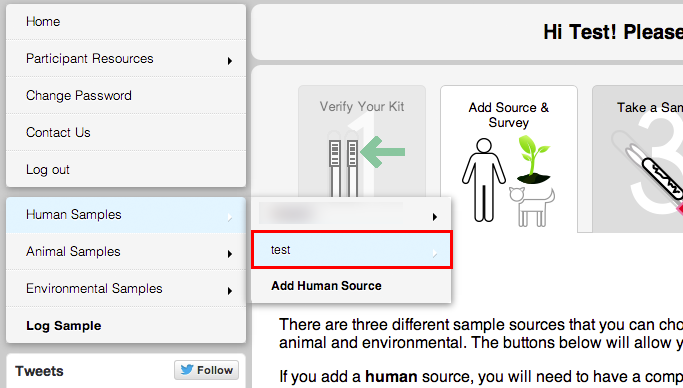
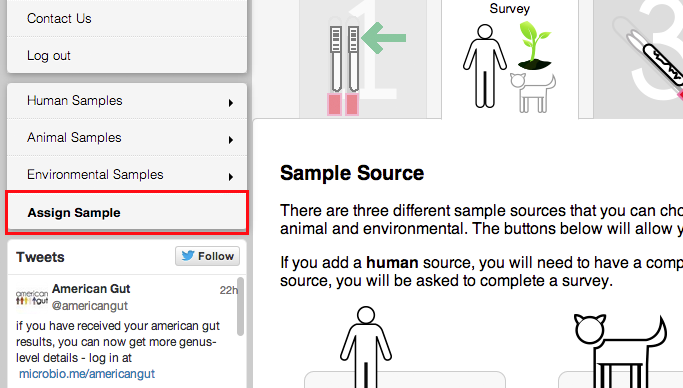
Changes to FAQ

diff --git a/amgut/lib/locale_data/american_gut.py b/amgut/lib/locale_data/american_gut.py
@@ -116,13 +116,13 @@ _FAQ = {
     'FAQ_HEADER': "%(shorthand)s FAQ" % {"shorthand": AMGUT_CONFIG.project_shorthand},
     'LOG_IN_WHAT_NOW_ANS_1': 'You need to follow the add participant workflow. Click on the "Add Source & Survey" tab located at the top of the page.',
     'INFORMATION_IDENTIFY_ME': 'Can data describing my gut microbiome be used to identify me or a medical condition I have?',
-    'LOG_IN_WHAT_NOW_ANS_3': 'You can log a sample by clicking the "Associate Sample" link in the menu. If you do not see the "Associate Sample" link, then all of your barcodes have been assigned.',
+    'LOG_IN_WHAT_NOW_ANS_3': 'You can assign a sample by clicking the "Assign Sample" link in the menu. If you do not see the "Assign Sample" link, then all of your barcodes have been assigned.',
     'PARTICIPATE_WITH_DIAGNOSIS': 'Can I participate in the project if I am diagnosed with ...?',
     'LOG_IN_WHAT_NOW_ANS_5': 'When adding a sample, please be sure to select the barcodes that matches the barcode on the sampling tube of the sample that you are logging',
     'TAKES_SIX_MONTHS': 'Does it really take up to three months to get my results?',
     'HOW_CHANGE_GUT': 'How can I change my gut microbiome?',
     'BETTER_OR_WORSE': 'How can I tell if my gut microbiome is better or worse than other people in my category?',
-    'ONLY_FECAL_RESULTS_ANS': 'We have only sent out results for fecal samples and are in the process of evaluating how best to present the other sample types. Please see <a href="#faq12">the previous question </a>',
+    'ONLY_FECAL_RESULTS_ANS': 'Results are only available for fecal, oral, and skin samples.  We are in the process of evaluating how best to present the other sample types. Please see <a href="#faq12">the previous question </a>',
     'DIFFERENT_WHATS_WRONG_WITH_ME_ANS': 'No! Your gut microbiome is as unique as your fingerprint so you should expect to see some differences. Many factors can affect your gut microbiome, and any differences you see are likely to be the result of one of these factors. Maybe your diet is different than most people your age. Maybe you just traveled somewhere exotic. Different does not necessarily mean bad.',
     'WHEN_RESULTS_NON_FECAL_ANS': 'The vast majority of the samples we\'ve received are fecal, which was why we prioritized those samples. Much of the analysis and results infrastructure we\'ve put in place is applicable to other sample types, but we do still need to assess what specific representations of the data make the most sense to return to participants. We apologize for the delay.',
     'FIND_DETAILED_INFO': 'Where can I find more detailed information about my sample?',
@@ -151,7 +151,7 @@ _FAQ = {
     'INFORMATION_IDENTIFY_ME_ANS': 'No. First, all of your personal information has been de-identified in our database as mandated by institutional guidelines. Second, although each person has a unique gut microbiome, many of the unique qualities are at the species or strain level of bacteria. Our sequencing methods currently do not allow us to describe your gut microbiome in that much detail. Finally, for most medical conditions, there are no known, predictable patterns in gut microbial community composition. Research simply hasn\'t gotten that far yet.</p>'
                                 '<p>We should also mention that since we are only interested in your microbes, we do not sequence human genomic DNA in our typical analyses. Where it is possible for human DNA to be sequenced (e.g., the Beyond Bacteria kits), we remove the human DNA using the same bioinformatics approaches undertaken in the NIH-funded Human Microbiome Project and approved by NIH bioethicists. Additionally, there is so little human DNA in fecal, skin and mucus samples that the chances of us being able to sequence your entire human genome are almost none, even if we tried.',
     'FECAL_NO_RESULTS_ANS': 'On any given sequencing run (not just the %(shorthand)s), a small percentage of the samples fail for unknown reasons -- our methods are good but not perfect. This is one of the reasons the sample kits have two Q-tips. It allows us to perform a second microbial DNA extraction and re-sequence if the first attempt failed. We will be doing this for all of the samples that failed. If there was a technical problem with the sample itself (e.g. not enough microbes on the swab) that inhibits us from producing data for you, we will be re-contacting you about collecting another sample.' % {"shorthand": AMGUT_CONFIG.project_shorthand},
-    'MULTIPLE_KITS_DIFFERENT_TIMES_ANS': 'For best results, we recommend that you mail each sample within 48 hours of collection.',
+    'MULTIPLE_KITS_DIFFERENT_TIMES_ANS': 'You are welcome to do that!  If you plan to wait to use another sample tube at a later date, store the tube in a dry, cool location at room temperature.  An ideal location would be a cabinet or closet.<p><strong>Do not take a sample unless you plan to send it within 48 hours of collecting.</strong></p>',
     'STEPS_TO_FOLLOW': '<a href="%(video)s">%(shorthand)s - Steps to Follow When Your Kit Arrives</a> from <a href="https://vimeo.com/user16100300">shelley schlender</a> on <a href="https://vimeo.com">Vimeo</a>.' % {"shorthand": AMGUT_CONFIG.project_shorthand, "video": media_locale["STEPS_VIDEO"]},
     'WHY_TWO_SWABS': 'Why are there 2 swabs inside the tube?',
     'MULTIPLE_KITS_DIFFERENT_TIMES': 'I have a 2+ sample kit, and would like to collect and send them in at different times',
@@ -166,7 +166,7 @@ _FAQ = {
     'WHERE_SEND_SAMPLE': 'Where do I send my sample?',
     'LOG_IN_WHAT_NOW': "I'm logged in, what do I do now?",
     'LOG_IN_WHAT_NOW_ANS_2': '<p>During this workflow you (or whomever is being sampled) will:</p>'
-                                '<ol>   <li>Add a participant</li><li>Provide electronic consent</li><li>Answer survey questions (including the diet questions)</li><li>Upon completion, become eligible to associate samples</li>          </ol><p>When participants are eligible,  you will then see their name under the corresponding menu on the left, in this example we have just added the participant "Test":</p>'
+                                '<ol>   <li>Add a participant</li><li>Provide electronic consent</li><li>Answer survey questions (including the diet questions)</li><li>Upon completion, become eligible to associate samples</li>          </ol><p>When participants are eligible,  you will then see their name under the corresponding menu on the left, in this example we have just added the participant "test":</p>'
                                 '',
     'WHAT_FORMS_ANS': 'The instruction on the sampling instructions that requires you to "place your forms and the sample tube in preaddressed envelope" is leftover from a previous version of the sampling instructions. There are no forms for you to include inside the envelope with your sample.</p>' % {'sitebase': media_locale['SITEBASE']},
     'WHY_TWO_SWABS_ANS_1': 'Each sampling tube contains two swabs and looks like this:',
@@ -213,7 +213,7 @@ _INTRODUCTION = {
     'INTRODUCTION_MICROBES_COME_FROM_HEAD': "Where do my microbes come from?",
     'INTRODUCTION_MICROBES_COME_FROM': "If you had asked this question a few years ago, we would have had to say the stork. But increasingly we are beginning to understand more about where the specific zoo of species in you come from and it is a little grosser than the stork. If you were born vaginally, some of your gut microbes came from your mother's feces (birth, my friend, is messy). Some came from her vagina. Others came, if you were breast fed, from her milk. It is easiest for bacteria, it seems, to colonize our guts in the first moments of life. As we age, our stomachs become acidic. We tend to think of the acid of our stomachs as aiding in digestion; it does that but another key role of our stomachs is to prevent pathogenic species from getting into our guts. The trouble with this, well, there are a couple of problems. One is c-section birth. During c-section birth, microbes need to come from somewhere other than the mother's vagina and feces. The most readily available microbes tend to be those in the hospital. As a result, the microbes in c-section babies tend to, at least initially, resemble those of the hospital more than they resemble those of other babies. With time, many c-section babies eventually get colonized by enough good bacteria (from pet dogs, pet cats, their parents' dirty hands, etc..) to get good microbes, but it is a more chancy process. But then, the big question, one we just don't know the answer to, is which and how many microbes colonize our guts as we get older. How many microbes ride through the acid bath of our stomach on our food and take up residence? We know that bad bacteria, pathogens, do this, but just how often and how good ones do it is not well worked out. You might be thinking, what about yoghurt and I'll tell you the answer, definitely, is we don't really know. Do people who eat yoghurt have guts colonized by species from that yoghurt? Maybe, possibly, I bet they do, but we don't really know (though if we get enough samples from yoghurt and non yoghurt eaters, we could know).",
     'INTRODUCTION_DISCOVER_HEAD': "What will we discover in your gut?",
-    'INTRODUCTION_DISCOVER': "When the early meetings were going on about this project, everyone sat around talking about what we might see from colon samples. One scientist was sure that we would see bacteria that looked like Elvis. Another though we would find Shakespeare's great lost play. But the truth is all that we are going to see from your gut are lists of nucleotides. Let me explain&hellip;<br/>&nbsp;<br/>Nucleotides are those hunks of protein out of which DNA and RNA are made. They come in different forms to which scientists have assigned names and letters. When the robots are done with the work, what they produce are lists of the nucleotides in all of 16S genes from all of the cells in your sample. These nucleotides tell the scientists which kinds of life are in your sample (and in you). But because we will only have samples of little stretches of the 16S genes, we won't know exactly which species are in you, just which lineages they are from. You might have the bacterial equivalent of a chimpanzee and a gorilla in you, but all we'll know from your sample is that there was an ape. Knowing you have a bacterial ape in your gut will, on its own, not tell you so much. The real information will come from context, statistical context. I know, that sounds boring, but I promise it is not.<br/>&nbsp;<br/>We think that hundreds of different things you do during your life, in addition to what your mother and father did (let's try not to think about that), your genes and even just where you grew up influence which species of microbes are found inside you. But we don't really know. The problem is humans are so darn complicated. What we need to be able to do is to compare large numbers of people, people who differ in many ways, to be able to sort out which variables are sometimes a little important and which ones are the big deal. Is a vegan gut very different from a vegetarian one? Does eating yoghurt make a big difference? Do the effects of a c-section birth last forever? These questions require us to compare many people, which is where you come in. Your sample, gives us context and it gives you context too. It won't be terribly exciting on its own (you will know which ancient lineages you have dividing and thriving inside you. OK, that is pretty cool on second thought), but it will be very exciting in context. Where do you fall relative to fish eaters, sick people healthy people, hunter gatherers, or even your dog? You will know and we will know. And this is not all.<br/>&nbsp;<br/>All of the questions I have mentioned so far are what I might call first order questions. How does this thing compare to that thing. But what we'd love to be able to answer are second order questions, contingent questions, questions such as whether the effect of your diet depends on your ethnicity (it probably does), whether the effect of having a dog depends on whether or not you live in the city (again, I bet it does) and so on. These questions are exactly the sort of question we have failed to be able to answer well when it comes to diet, because we don't have big enough samples sizes. We can see the forest for all of humans. Well, that isn't quite right, but you get the idea, we will be able to understand elaborate effects of multiple variables on the wilderness between your pie hole and the other hole and that, to us, is exciting.",
+    'INTRODUCTION_DISCOVER': "When the early meetings were going on about this project, everyone sat around talking about what we might see from colon samples. One scientist was sure that we would see bacteria that looked like Elvis. Another though we would find Shakespeare's great lost play. But the truth is all that we are going to see from your gut are lists of nucleotides. Let me explain&hellip;<br/>&nbsp;<br/>Nucleotides are those building blocks out of which DNA and RNA are made. They come in different forms to which scientists have assigned names and letters. When the robots are done with the work, what they produce are lists of the nucleotides in all of 16S genes from all of the cells in your sample. These nucleotides tell the scientists which kinds of life are in your sample (and in you). But because we will only have samples of little stretches of the 16S genes, we won't know exactly which species are in you, just which lineages they are from. You might have the bacterial equivalent of a chimpanzee and a gorilla in you, but all we'll know from your sample is that there was an ape. Knowing you have a bacterial ape in your gut will, on its own, not tell you so much. The real information will come from context, statistical context. I know, that sounds boring, but I promise it is not.<br/>&nbsp;<br/>We think that hundreds of different things you do during your life, in addition to what your mother and father did (let's try not to think about that), your genes and even just where you grew up influence which species of microbes are found inside you. But we don't really know. The problem is humans are so darn complicated. What we need to be able to do is to compare large numbers of people, people who differ in many ways, to be able to sort out which variables are sometimes a little important and which ones are the big deal. Is a vegan gut very different from a vegetarian one? Does eating yoghurt make a big difference? Do the effects of a c-section birth last forever? These questions require us to compare many people, which is where you come in. Your sample, gives us context and it gives you context too. It won't be terribly exciting on its own (you will know which ancient lineages you have dividing and thriving inside you. OK, that is pretty cool on second thought), but it will be very exciting in context. Where do you fall relative to fish eaters, sick people healthy people, hunter gatherers, or even your dog? You will know and we will know. And this is not all.<br/>&nbsp;<br/>All of the questions I have mentioned so far are what I might call first order questions. How does this thing compare to that thing. But what we'd love to be able to answer are second order questions, contingent questions, questions such as whether the effect of your diet depends on your ethnicity (it probably does), whether the effect of having a dog depends on whether or not you live in the city (again, I bet it does) and so on. These questions are exactly the sort of question we have failed to be able to answer well when it comes to diet, because we don't have big enough samples sizes. We can see the forest for all of humans. Well, that isn't quite right, but you get the idea, we will be able to understand elaborate effects of multiple variables on the wilderness between your pie hole and the other hole and that, to us, is exciting.",
     'INTRODUCTION_STORIES_HEAD': "A few of the stories of the evolutionary tree in your gut",
     'INTRODUCTION_STORIES': "Some people have least favorite bacteria. Salmonella, for example, seems to have inspired some haters. But microbiologists also have favorite bacteria, as well they should. The stories of bacteria (and those who chase and study them) are among the most important of humanities stories and include the tales of many species without which we could not live, or whose presence or absence affects how we live. These species are as fascinating and, dare I say, lovely as pandas or koala bears, just harder to see and far more significant. I have begun to compile a book of the stories of some of the most common and interesting species you are likely to encounter&mdash; whether in your own gut, on your lettuce or the next time you sink your fingers into the soil. These stories will be available online here at <a href=\"http://invisiblelife.yourwildlife.org/\">Invisible Life</a> as they are compiled as a book, a book written by some of the very best science writers AND scientists out there. For starters, you might be interested to know that <a href=\"http://invisiblelife.yourwildlife.org/mycoplasma/\">the smallest species on Earth</a> is sometimes found inside humans and, once we look at your 16S, we will even know whether it lives in you. As more of these stories are written, they will appear here, eventually as an ebook, an ebook that you can reference when you find out what lives inside you to know whether your constant companion is a species we know everything about or, as is more typical, no one has ever studied. Like Charlie Chaplin once said&hellip; Wait, Charlie Chaplin was the one who didn't say anything wasn't he."
 }

diff --git a/amgut/lib/locale_data/british_gut.py b/amgut/lib/locale_data/british_gut.py
@@ -50,7 +50,7 @@ media_locale = {
     'FAVICON': _SITEBASE + "/static/img/favicon.ico",
     'FUNDRAZR_URL': "https://fundrazr.com/campaigns/4sSf3",
     'HELP_EMAIL': HELP_EMAIL,
-    'LOGO': _SITEBASE + '/static/img/british_gut_logo.jpg',
+    'LOGO': _SITEBASE + '/static/img/bg_logo.jpg',
     'LOG_SAMPLE_OPTS': _SITEBASE + "/static/img/log_sample_options.png",
     'NAV_ADDENDUM': "How do I interpret my results?",
     'NAV_ADD_ANIMAL': "Add Animal Source",
@@ -456,19 +456,19 @@ _FAQ = {
                                    "<p>We should also mention that since we are only interested in your microbes, we do not sequence human genomic DNA in our typical analyses. Where it is possible for human DNA to be sequenced (e.g., the Beyond Bacteria kits), we remove the human DNA using the same bioinformatics approaches undertaken in the NIH-funded Human Microbiome Project and approved by NIH bioethicists. Additionally, there is so little human DNA in faecal, skin and mucus samples that the chances of us being able to sequence your entire human genome are almost none, even if we tried.",
     'LOG_IN_WHAT_NOW': "I'm logged in, what do I do now?",
     'LOG_IN_WHAT_NOW_ANS_1': 'You need to follow the add participant workflow. Click on the "Add Source & Survey" tab located at the top of the page.',
-    'LOG_IN_WHAT_NOW_ANS_2': '<p>During this workflow you (or whomever is being sampled) will:</p><ol>   <li>Add a participant</li><li>Provide electronic consent</li><li>Answer survey questions (including the diet questions)</li><li>Upon completion, become eligible to associate samples</li>          </ol><p>When participants are eligible,  you will then see their name under the corresponding menu on the left, in this example we have just added the participant "Test":</p>',
-    'LOG_IN_WHAT_NOW_ANS_3': 'You can log a sample by clicking the "Associate Sample" link in the menu. If you do not see the "Associate Sample" link, then all of your barcodes have been assigned.',
+    'LOG_IN_WHAT_NOW_ANS_2': '<p>During this workflow you (or whomever is being sampled) will:</p><ol>   <li>Add a participant</li><li>Provide electronic consent</li><li>Answer survey questions (including the diet questions)</li><li>Upon completion, become eligible to associate samples</li>          </ol><p>When participants are eligible,  you will then see their name under the corresponding menu on the left, in this example we have just added the participant "test":</p>',
+    'LOG_IN_WHAT_NOW_ANS_3': 'You can assign a sample by clicking the "Assign Sample" link in the menu. If you do not see the "Assign Sample" link, then all of your barcodes have been assigned.',
     'LOG_IN_WHAT_NOW_ANS_4': "The generic add sample page looks like this:",
     'LOG_IN_WHAT_NOW_ANS_5': "When adding a sample, please be sure to select the barcodes that matches the barcode on the sampling tube of the sample that you are logging",
     'LOOK_BELOW': "If you're still experiencing issues, look for your problem in the FAQ below",
     'MISSING_METADATA': "What are missing metadata?",
     'MISSING_METADATA_ANS': "Metadata are information describing your age, gender, diet, etc. Missing metadata mean that this person did not provide us with this information.",
     'MULTIPLE_KITS_DIFFERENT_TIMES': "I have a 2+ sample kit, and would like to collect and send them in at different times",
-    'MULTIPLE_KITS_DIFFERENT_TIMES_ANS': "For best results, we recommend that you mail each sample within 48 hours of collection.",
+    'MULTIPLE_KITS_DIFFERENT_TIMES_ANS': 'You are welcome to do that!  If you plan to wait to use another sample tube at a later date, store the tube in a dry, cool location at room temperature.  An ideal location would be a cabinet or closet.<p><strong>Do not take a sample unless you plan to send it within 48 hours of collecting.</strong></p>',
     'NOT_A_BUSINESS': "We are not a business",
     'NOT_A_BUSINESS_ANS': 'We have had many enquiries about our "service" or "business". %(project_shorthand)s is a contribution-supported academic project that is a collaboration between the <a href="http://www.earthmicrobiome.org">Earth Microbiome Project</a> and the <a href="http://humanfoodproject.com/">Human Food Project</a>, primarily run out of the <a href="https://knightlab.ucsd.edu/">Knight Lab</a> at the University of California San Diego, and is not a business or service.  In particular, the project is not a diagnostic test (although the information gained through the project may in future contribute to the development of diagnostic tests). All data except for information that needs to be kept confidential for privacy reasons is openly and freely released into public databases, and the project is not intended to make a profit (any surplus funds would be recycled back into furthering human microbiome research).' % {'project_shorthand': AMGUT_CONFIG.project_shorthand},
     'ONLY_FECAL_RESULTS': "I sent more than one kind of sample, but I only received data for my faecal sample. What happened to my other samples?",
-    'ONLY_FECAL_RESULTS_ANS': 'We have only sent out results for faecal samples and are in the process of evaluating how best to present the other sample types. Please see <a href="#faq12">the previous question </a>',
+    'ONLY_FECAL_RESULTS_ANS': 'Results are only available for fecal, oral, and skin samples.  We are in the process of evaluating how best to present the other sample types. Please see <a href="#faq12">the previous question </a>',
     'PARTICIPATE_WITH_DIAGNOSIS': "Can I participate in the project if I am diagnosed with ...?",
     'PARTICIPATE_WITH_DIAGNOSIS_ANS': "Of course! The only exclusion criteria are: you must be more than 3 months old and cannot be in prison. Please keep in mind that, for legal and ethical reasons, the British Gut Project does not provide medically actionable results or advice.",
     'PASSWORD_DOESNT_WORK': "My password doesn't work!",
@@ -519,7 +519,7 @@ _INTRODUCTION = {
     'INTRODUCTION_MICROBES_COME_FROM_HEAD': "Where do my microbes come from?",
     'INTRODUCTION_MICROBES_COME_FROM': "If you had asked this question a few years ago, we would have had to say the stork. But increasingly we are beginning to understand more about where the specific zoo of species in you come from and it is a little grosser than the stork. If you were born vaginally, some of your gut microbes came from your mother's feces (birth, my friend, is messy). Some came from her vagina. Others came, if you were breast fed, from her milk. It is easiest for bacteria, it seems, to colonize our guts in the first moments of life. As we age, our stomachs become acidic. We tend to think of the acid of our stomachs as aiding in digestion; it does that but another key role of our stomachs is to prevent pathogenic species from getting into our guts. The trouble with this, well, there are a couple of problems. One is c-section birth. During c-section birth, microbes need to come from somewhere other than the mother's vagina and feces. The most readily available microbes tend to be those in the hospital. As a result, the microbes in c-section babies tend to, at least initially, resemble those of the hospital more than they resemble those of other babies. With time, many c-section babies eventually get colonized by enough good bacteria (from pet dogs, pet cats, their parents' dirty hands, etc..) to get good microbes, but it is a more chancy process. But then, the big question, one we just don't know the answer to, is which and how many microbes colonize our guts as we get older. How many microbes ride through the acid bath of our stomach on our food and take up residence? We know that bad bacteria, pathogens, do this, but just how often and how good ones do it is not well worked out. You might be thinking, what about yoghurt and I'll tell you the answer, definitely, is we don't really know. Do people who eat yoghurt have guts colonized by species from that yoghurt? Maybe, possibly, I bet they do, but we don't really know (though if we get enough samples from yoghurt and non yoghurt eaters, we could know).",
     'INTRODUCTION_DISCOVER_HEAD': "What will we discover in your gut?",
-    'INTRODUCTION_DISCOVER': "When the early meetings were going on about this project, everyone sat around talking about what we might see from colon samples. One scientist was sure that we would see bacteria that looked like Elvis. Another though we would find Shakespeare's great lost play. But the truth is all that we are going to see from your gut are lists of nucleotides. Let me explain&hellip;<br/>&nbsp;<br/>Nucleotides are those hunks of protein out of which DNA and RNA are made. They come in different forms to which scientists have assigned names and letters. When the robots are done with the work, what they produce are lists of the nucleotides in all of 16S genes from all of the cells in your sample. These nucleotides tell the scientists which kinds of life are in your sample (and in you). But because we will only have samples of little stretches of the 16S genes, we won't know exactly which species are in you, just which lineages they are from. You might have the bacterial equivalent of a chimpanzee and a gorilla in you, but all we'll know from your sample is that there was an ape. Knowing you have a bacterial ape in your gut will, on its own, not tell you so much. The real information will come from context, statistical context. I know, that sounds boring, but I promise it is not.<br/>&nbsp;<br/>We think that hundreds of different things you do during your life, in addition to what your mother and father did (let's try not to think about that), your genes and even just where you grew up influence which species of microbes are found inside you. But we don't really know. The problem is humans are so darn complicated. What we need to be able to do is to compare large numbers of people, people who differ in many ways, to be able to sort out which variables are sometimes a little important and which ones are the big deal. Is a vegan gut very different from a vegetarian one? Does eating yoghurt make a big difference? Do the effects of a c-section birth last forever? These questions require us to compare many people, which is where you come in. Your sample, gives us context and it gives you context too. It won't be terribly exciting on its own (you will know which ancient lineages you have dividing and thriving inside you. OK, that is pretty cool on second thought), but it will be very exciting in context. Where do you fall relative to fish eaters, sick people healthy people, hunter gatherers, or even your dog? You will know and we will know. And this is not all.<br/>&nbsp;<br/>All of the questions I have mentioned so far are what I might call first order questions. How does this thing compare to that thing. But what we'd love to be able to answer are second order questions, contingent questions, questions such as whether the effect of your diet depends on your ethnicity (it probably does), whether the effect of having a dog depends on whether or not you live in the city (again, I bet it does) and so on. These questions are exactly the sort of question we have failed to be able to answer well when it comes to diet, because we don't have big enough samples sizes. We can see the forest for all of humans. Well, that isn't quite right, but you get the idea, we will be able to understand elaborate effects of multiple variables on the wilderness between your pie hole and the other hole and that, to us, is exciting.",
+    'INTRODUCTION_DISCOVER': "When the early meetings were going on about this project, everyone sat around talking about what we might see from colon samples. One scientist was sure that we would see bacteria that looked like Elvis. Another though we would find Shakespeare's great lost play. But the truth is all that we are going to see from your gut are lists of nucleotides. Let me explain&hellip;<br/>&nbsp;<br/>Nucleotides are those building blocks out of which DNA and RNA are made. They come in different forms to which scientists have assigned names and letters. When the robots are done with the work, what they produce are lists of the nucleotides in all of 16S genes from all of the cells in your sample. These nucleotides tell the scientists which kinds of life are in your sample (and in you). But because we will only have samples of little stretches of the 16S genes, we won't know exactly which species are in you, just which lineages they are from. You might have the bacterial equivalent of a chimpanzee and a gorilla in you, but all we'll know from your sample is that there was an ape. Knowing you have a bacterial ape in your gut will, on its own, not tell you so much. The real information will come from context, statistical context. I know, that sounds boring, but I promise it is not.<br/>&nbsp;<br/>We think that hundreds of different things you do during your life, in addition to what your mother and father did (let's try not to think about that), your genes and even just where you grew up influence which species of microbes are found inside you. But we don't really know. The problem is humans are so darn complicated. What we need to be able to do is to compare large numbers of people, people who differ in many ways, to be able to sort out which variables are sometimes a little important and which ones are the big deal. Is a vegan gut very different from a vegetarian one? Does eating yoghurt make a big difference? Do the effects of a c-section birth last forever? These questions require us to compare many people, which is where you come in. Your sample, gives us context and it gives you context too. It won't be terribly exciting on its own (you will know which ancient lineages you have dividing and thriving inside you. OK, that is pretty cool on second thought), but it will be very exciting in context. Where do you fall relative to fish eaters, sick people healthy people, hunter gatherers, or even your dog? You will know and we will know. And this is not all.<br/>&nbsp;<br/>All of the questions I have mentioned so far are what I might call first order questions. How does this thing compare to that thing. But what we'd love to be able to answer are second order questions, contingent questions, questions such as whether the effect of your diet depends on your ethnicity (it probably does), whether the effect of having a dog depends on whether or not you live in the city (again, I bet it does) and so on. These questions are exactly the sort of question we have failed to be able to answer well when it comes to diet, because we don't have big enough samples sizes. We can see the forest for all of humans. Well, that isn't quite right, but you get the idea, we will be able to understand elaborate effects of multiple variables on the wilderness between your pie hole and the other hole and that, to us, is exciting.",
     'INTRODUCTION_STORIES_HEAD': "A few of the stories of the evolutionary tree in your gut",
     'INTRODUCTION_STORIES': "Some people have least favorite bacteria. Salmonella, for example, seems to have inspired some haters. But microbiologists also have favorite bacteria, as well they should. The stories of bacteria (and those who chase and study them) are among the most important of humanities stories and include the tales of many species without which we could not live, or whose presence or absence affects how we live. These species are as fascinating and, dare I say, lovely as pandas or koala bears, just harder to see and far more significant. I have begun to compile a book of the stories of some of the most common and interesting species you are likely to encounter&mdash; whether in your own gut, on your lettuce or the next time you sink your fingers into the soil. These stories will be available online here at <a href=\"http://invisiblelife.yourwildlife.org/\">Invisible Life</a> as they are compiled as a book, a book written by some of the very best science writers AND scientists out there. For starters, you might be interested to know that <a href=\"http://invisiblelife.yourwildlife.org/mycoplasma/\">the smallest species on Earth</a> is sometimes found inside humans and, once we look at your 16S, we will even know whether it lives in you. As more of these stories are written, they will appear here, eventually as an ebook, an ebook that you can reference when you find out what lives inside you to know whether your constant companion is a species we know everything about or, as is more typical, no one has ever studied. Like Charlie Chaplin once said&hellip; Wait, Charlie Chaplin was the one who didn't say anything wasn't he."
 }
